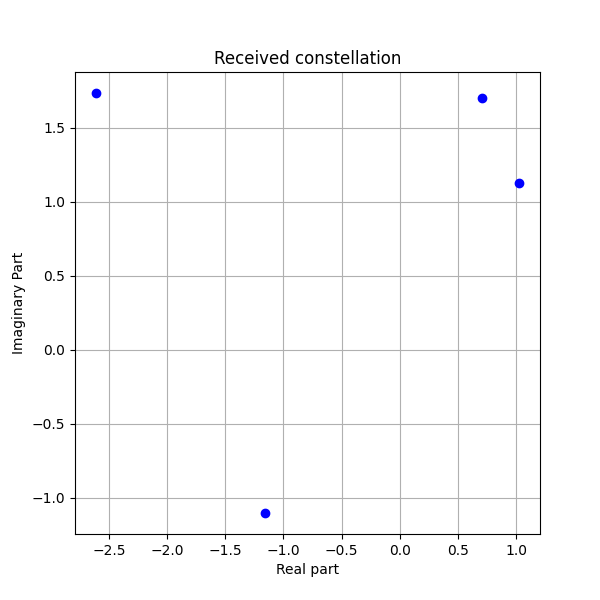
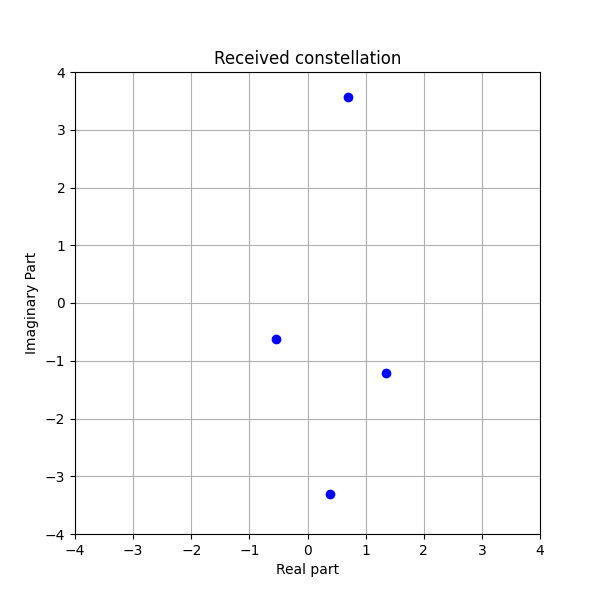
update plot dan diagram

diff --git a/Simulation/templates/ofdmsim/ofdmsim.html b/Simulation/templates/ofdmsim/ofdmsim.html
@@ -76,9 +76,20 @@
 
       <!-- OFDMTXRX DIAGRAM : Output Area -->
       <div class="row justify-content-center mt-5">
-        <div id="outputContainer" style="padding-bottom: px;"></div>
-        <div id="imageContainer"></div>
+        <div id="outputContainer1" style="padding-bottom: px;"></div>
+        <div id="imageContainer1"></div>
       </div>
+
+      <div class="row justify-content-center mt-5"> 
+        <div id="outputContainer2" style="padding-bottom: px;"></div>
+        <div id="imageContainer2"></div>
+      </div>
+
+      <div class="row justify-content-center mt-5">
+        <div id="outputContainer3" style="padding-bottom: px;"></div>
+        <div id="imageContainer3"></div>
+      </div>
+      
 
       <!-- OFDMTXRX PLOT: Output Area -->
       <div class="row justify-content-center mt-5">
@@ -413,75 +424,98 @@
 
       function handleInput() {
         var text = document.getElementById("input_text").value;
-        var imageContainer = document.getElementById("imageContainer");
+        var imageContainer1 = document.getElementById("imageContainer1");
+        var imageContainer2 = document.getElementById("imageContainer2");
+        var imageContainer3 = document.getElementById("imageContainer3");
         var infoMessage = document.getElementById("infoMessage");
         const inputText = text.trim();
-        const outputContainer = document.getElementById("outputContainer");
+        const outputContainer1 = document.getElementById("outputContainer1");
+        const outputContainer2 = document.getElementById("outputContainer2");
+        const outputContainer3 = document.getElementById("outputContainer3");
 
         if (inputText !== "") {
-          const outputText = document.createElement("h4");
-          const outputSpan = document.createElement("span");
-          outputSpan.textContent = "Output: ";
-          outputText.appendChild(outputSpan);
-          outputText.innerHTML += "Diagram";
+          const outputText1 = document.createElement("h4");
+          const outputSpan1 = document.createElement("span");
+          const outputText2 = document.createElement("h4");
+          const outputSpan2 = document.createElement("span");
+          const outputText3 = document.createElement("h4");
+          const outputSpan3 = document.createElement("span");
+          outputSpan1.textContent = "Output: ";
+          outputText1.appendChild(outputSpan1);
+          outputText1.innerHTML += "Diagram Transmitter";
+          outputContainer1.innerHTML = "";
+          outputContainer1.appendChild(outputText1);
 
-          outputContainer.innerHTML = "";
-          outputContainer.appendChild(outputText);
+          outputSpan2.textContent = "Output: ";
+          outputText2.appendChild(outputSpan2);
+          outputText2.innerHTML += "Diagram Kanal";
+          outputContainer2.innerHTML = "";
+          outputContainer2.appendChild(outputText2);
+
+          outputSpan3.textContent = "Output: ";
+          outputText3.appendChild(outputSpan3);
+          outputText3.innerHTML += "Diagram Receiver";
+          outputContainer3.innerHTML = "";
+          outputContainer3.appendChild(outputText3);
         } else {
-          outputContainer.innerHTML = "";
+          outputContainer1.innerHTML = "";
+          outputContainer2.innerHTML = "";
+          outputContainer3.innerHTML = "";
         }
         
 
-        imageContainer.innerHTML = "";
+        imageContainer1.innerHTML = "";
+        imageContainer2.innerHTML = "";
+        imageContainer3.innerHTML = "";
         var notFoundKeywords = [];
 
         var keywords = text.split(/[= ]+/);
         for (var i = 0; i < keywords.length; i++) {
           var keyword = keywords[i];
           if (keyword === "bit-generate") {
-            imageContainer.innerHTML +=
+            imageContainer1.innerHTML +=
               "<img src='{% static 'images/randombit.drawio.png' %}'>";
           } else if (keyword === "tx-serial-parallel") {
-            imageContainer.innerHTML +=
+            imageContainer1.innerHTML +=
               "<img src='{% static 'images/txs2p.drawio.png' %}'>";
           } else if (keyword === "digital-modulation") {
-            imageContainer.innerHTML +=
+            imageContainer1.innerHTML +=
               "<img src='{% static 'images/digitalmod.drawio.png' %}'>";
           } else if (keyword === "ifft") {
-            imageContainer.innerHTML +=
+            imageContainer1.innerHTML +=
               "<img src='{% static 'images/ifft.drawio.png' %}'>";
           } else if (keyword === "tx-parallel-serial") {
-            imageContainer.innerHTML +=
+            imageContainer1.innerHTML +=
               "<img src='{% static 'images/txp2s.drawio.png' %}'>";
           } else if (keyword === "add-cp") {
-            imageContainer.innerHTML +=
+            imageContainer1.innerHTML +=
               "<img src='{% static 'images/addcp.drawio.png' %}'>";
           } else if (keyword === "ofdm-channel") {
-            imageContainer.innerHTML +=
+            imageContainer2.innerHTML +=
               "<img src='{% static 'images/channel.drawio.png' %}'>";
           } else if (keyword === "awgn") {
-            imageContainer.innerHTML +=
+            imageContainer2.innerHTML +=
               "<img src='{% static 'images/awgn.drawio.png' %}'>";
           } else if (keyword === "remove-cp") {
-            imageContainer.innerHTML +=
+            imageContainer3.innerHTML +=
               "<img src='{% static 'images/removecp.drawio.png' %}'>";
           } else if (keyword === "rx-serial-parallel") {
-            imageContainer.innerHTML +=
+            imageContainer3.innerHTML +=
               "<img src='{% static 'images/rxs2p.drawio.png' %}'>";
           } else if (keyword === "fft") {
-            imageContainer.innerHTML +=
+            imageContainer3.innerHTML +=
               "<img src='{% static 'images/fft.drawio.png' %}'>";
           } else if (keyword === "equalizer") {
-            imageContainer.innerHTML +=
+            imageContainer3.innerHTML +=
               "<img src='{% static 'images/equalizer.drawio.png' %}'>";
           } else if (keyword === "digital-demod") {
-            imageContainer.innerHTML +=
+            imageContainer3.innerHTML +=
               "<img src='{% static 'images/demod.drawio.png' %}'>";
           } else if (keyword === "rx-parallel-serial") {
-            imageContainer.innerHTML +=
+            imageContainer3.innerHTML +=
               "<img src='{% static 'images/rxp2s.drawio.png' %}'>";
           } else if (keyword === "received-bits") {
-            imageContainer.innerHTML +=
+            imageContainer3.innerHTML +=
               "<img src='{% static 'images/revbits.drawio.png' %}'>";
           } else {
             notFoundKeywords.push(keyword);

diff --git a/Simulation/plot.py b/Simulation/plot.py
@@ -20,11 +20,12 @@ def get_base64_encoded_image(image_path):
 
 def get_plot_bitgenerate(bits):
     plt.figure(figsize=(12,2))
-    # Plot untuk Signal Generator
-    plt.step(np.arange(0, len(bits)), bits,'r', linewidth = 2, where='post')
-    for tbit, bit in enumerate(bits):
-        plt.text(tbit + 0.5, 0.5, str(bit))
-    
+    # Plot untuk Signal Generator\
+    if len(bits)<=32:
+        plt.step(np.arange(0, len(bits)), bits,'r', linewidth = 2, where='post')
+        for tbit, bit in enumerate(bits):
+            plt.text(tbit + 0.5, 0.5, str(bit))
+    else: plt.step(np.arange(0, len(bits)), bits,'r', where='post') 
     #plt.ylim([-1,1.5])
     plt.title('Output Bit Generator')
     plt.xlabel('Sample')
@@ -172,6 +173,8 @@ def get_plot_received_const(received_const):
     plt.figure(figsize=(6,6))
     plt.plot(received_const.real, received_const.imag, 'bo');
     plt.grid(True); 
+    plt.ylim([-4,4])
+    plt.xlim([-4,4])
     plt.xlabel('Real part'); 
     plt.ylabel('Imaginary Part'); 
     plt.title("Received constellation");\
@@ -187,6 +190,8 @@ def get_plot_equalizer_const(received_const, hard_decision):
         plt.plot([qam.real, hard.real], [qam.imag, hard.imag], 'b-o');
         plt.plot(hard_decision.real, hard_decision.imag, 'ro')
     plt.grid(True); plt.xlabel('Real part'); plt.ylabel('Imaginary part'); plt.title('Hard Decision demapping');
+    plt.ylim([-4,4])
+    plt.xlim([-4,4])
     equalizer_const_path = 'Simulation/static/files/equalizerconst.png'
     plt.savefig(equalizer_const_path)
     equalizer_const_img_base64 = get_base64_encoded_image(equalizer_const_path)
@@ -195,9 +200,11 @@ def get_plot_equalizer_const(received_const, hard_decision):
 
 def get_plot_received_bits(bits_serial):
     plt.figure(figsize=(12,2))
-    plt.step(np.arange(0, len(bits_serial)), bits_serial,'r', linewidth = 2, where='post')
-    for tbit, bit in enumerate(bits_serial):
-        plt.text(tbit + 0.5, 0.5, str(bit))
+    if len(bits_serial)<=32:
+        plt.step(np.arange(0, len(bits_serial)), bits_serial,'r', linewidth = 2, where='post')
+        for tbit, bit in enumerate(bits_serial):
+            plt.text(tbit + 0.5, 0.5, str(bit))
+    else: plt.step(np.arange(0, len(bits_serial)), bits_serial,'r', where='post') 
     plt.title('Received Bits')
     plt.xlabel('Sample')
     plt.ylabel('Amplitude')
